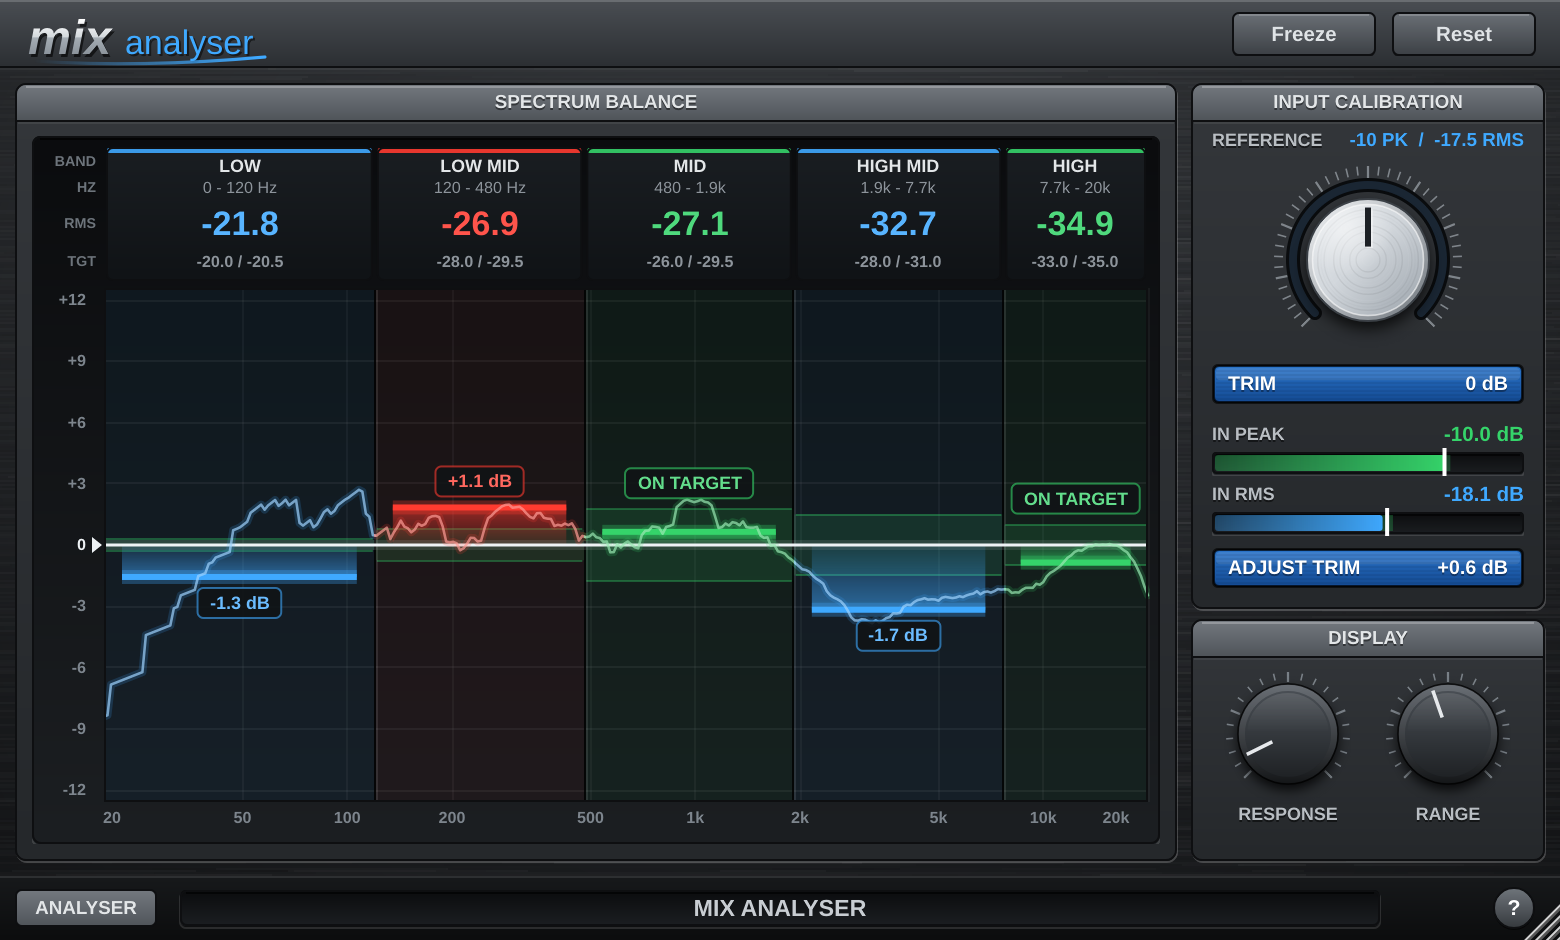
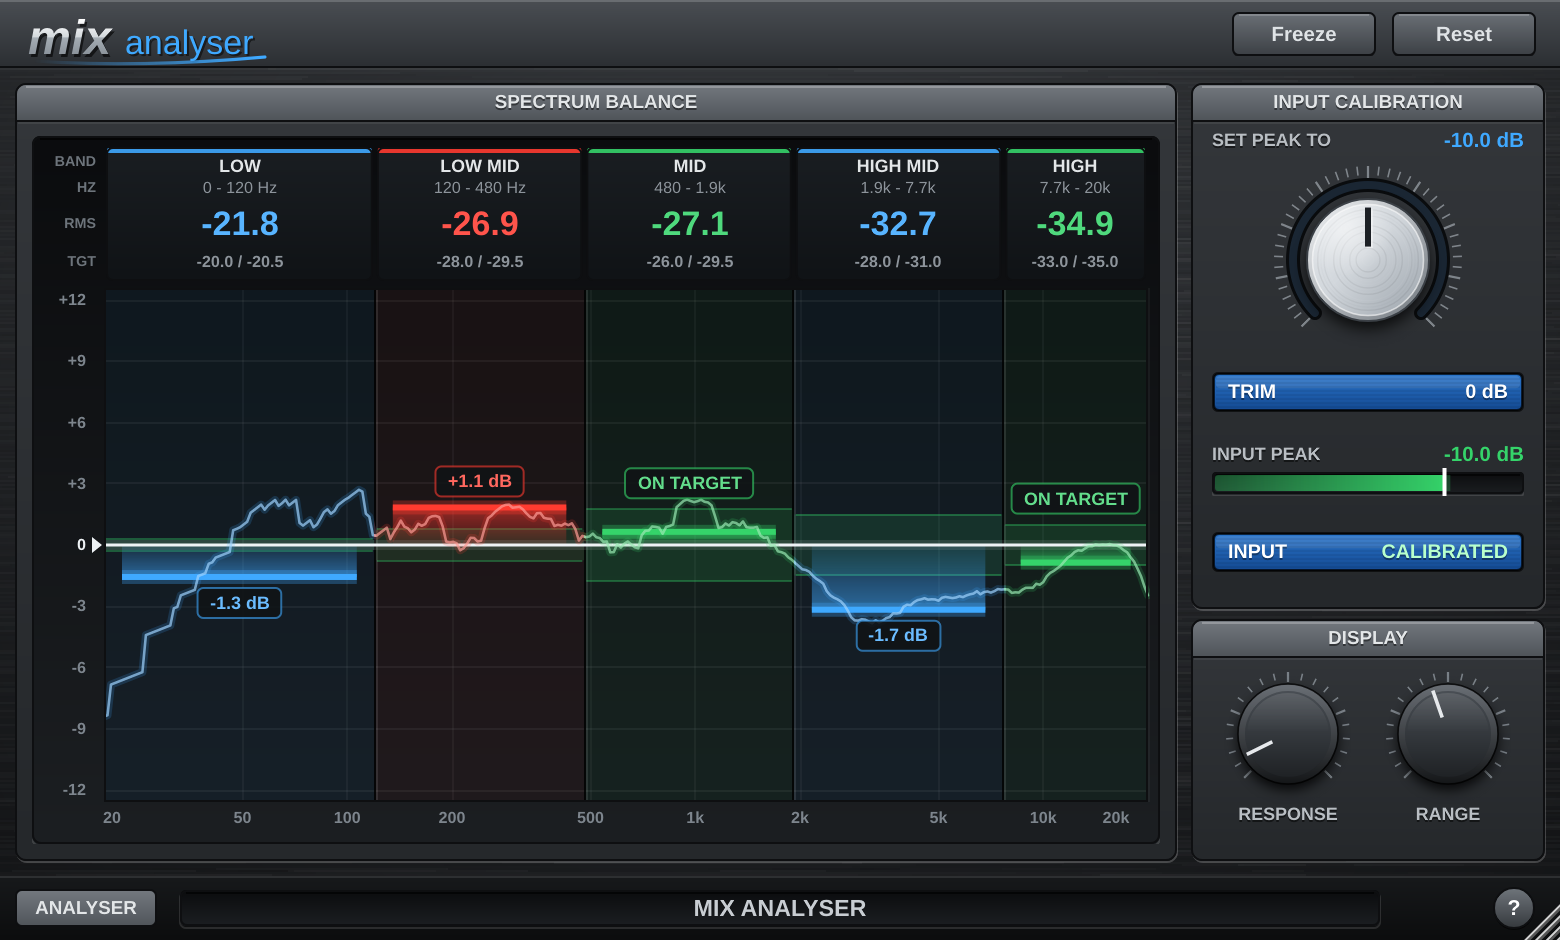
Simplify calibration: peak-only trim, remove RMS input meter
Claude-Session: https://claude.ai/code/session_01HY2UoCFnfYd5woLgvLKPLP

Changed region(s): [[0.7692, 0.3702, 0.9846, 0.6479], [0.7692, 0.1234, 0.9846, 0.1543]]

diff --git a/Source/PluginEditor.cpp b/Source/PluginEditor.cpp
@@ -52,11 +52,9 @@ AnalyserPanel::AnalyserPanel (AnalyserAudioProcessor& p) : processor (p)
 
     addAndMakeVisible (spectrum);
     addAndMakeVisible (peakMeter);
-    addAndMakeVisible (rmsMeter);
     addAndMakeVisible (trimLcd);
     addAndMakeVisible (guideLcd);
-    peakMeter.setTooltip ("Sample peak of the trimmed input over the Response window. Reference: -10 dB");
-    rmsMeter.setTooltip ("RMS of the trimmed input over the Response window. Reference: -17.5 dB");
+    peakMeter.setTooltip ("Highest sample peak of the trimmed input over the Response window. Set TRIM so this reads -10 dB.");
 
     helpButton.onClick = [this] { helpOverlay.setVisible (true); helpOverlay.toFront (false); };
     helpButton.setTooltip ("Quick help");
@@ -82,10 +80,9 @@ void AnalyserPanel::resized()
     spectrum.setBounds (16, 68, 564, 354);
 
     trimKnob.setBounds (636, 82, 96, 96);
-    trimLcd.setBounds (606, 182, 156, 20);
-    peakMeter.setBounds (606, 210, 156, 28);
-    rmsMeter.setBounds (606, 240, 156, 28);
-    guideLcd.setBounds (606, 274, 156, 20);
+    trimLcd.setBounds (606, 186, 156, 20);
+    peakMeter.setBounds (606, 220, 156, 28);
+    guideLcd.setBounds (606, 266, 156, 20);
 
     responseKnob.setBounds (612, 334, 64, 80);
     rangeKnob.setBounds (692, 334, 64, 80);
@@ -111,11 +108,10 @@ void AnalyserPanel::refresh()
         curve.process (tapCopy.data(), s.sampleRate.load());
         spectrum.setCurve (curve);
 
-        const float peak = s.inputPeakDb.load(), rms = s.inputRmsDb.load();
+        const float peak = s.inputPeakDb.load();
         peakMeter.setLevel (peak);
-        rmsMeter.setLevel (rms);
 
-        const auto status = an::inputStatus (rms, an::kRefRmsDb);
+        const auto status = an::inputStatus (peak, an::kRefPeakDb);
         if (status == an::Status::Silent)
         {
             guideLcd.setContent ("INPUT", "NO SIGNAL");
@@ -128,7 +124,7 @@ void AnalyserPanel::refresh()
         }
         else
         {
-            guideLcd.setContent ("ADJUST TRIM", an::formatDb (an::kRefRmsDb - rms, true) + " dB");
+            guideLcd.setContent ("ADJUST TRIM", an::formatDb (an::kRefPeakDb - peak, true) + " dB");
             guideLcd.setValueColour (Colours::white);
         }
     }
@@ -230,10 +226,10 @@ void AnalyserPanel::paint (Graphics& g)
     CustomLookAndFeel::drawPanel (g, displayPanel,  "Display");
 
     // reference level line in the calibration panel
-    CustomLookAndFeel::drawSmallLabel (g, "Reference", { 606.0f, 64.0f, 70.0f, 12.0f }, Justification::centredLeft);
-    g.setFont (CustomLookAndFeel::uiFont (10.5f, true));
+    CustomLookAndFeel::drawSmallLabel (g, "Set Peak To", { 606.0f, 64.0f, 90.0f, 12.0f }, Justification::centredLeft);
+    g.setFont (CustomLookAndFeel::uiFont (11.5f, true));
     g.setColour (VirusColours::blue);
-    g.drawText ("-10 PK  /  -17.5 RMS", Rectangle<float> (662.0f, 64.0f, 100.0f, 12.0f), Justification::centredRight);
+    g.drawText ("-10.0 dB", Rectangle<float> (682.0f, 64.0f, 80.0f, 12.0f), Justification::centredRight);
 
     // --- bottom bar -----------------------------------------------------------------
     auto bar = Rectangle<float> (0.0f, (float) kBottomBarY, (float) kWidth, (float) (kHeight - kBottomBarY));

diff --git a/Source/UI/AnalyserComponents.cpp b/Source/UI/AnalyserComponents.cpp
@@ -710,9 +710,9 @@ void HelpOverlay::paint (Graphics& g)
 
     const char* lines[] =
     {
-        "1.  Set your mix so it reads -10 dB peak / -17.5 dB RMS in your DAW.",
-        "2.  Fine-tune TRIM until IN PEAK and IN RMS turn green (only the analysis is trimmed;",
-        "     the audio passes through unchanged).",
+        "1.  Play your mix and turn TRIM until INPUT PEAK reads -10 dB and turns green.",
+        "     The LCD below it tells you how far to move TRIM. Only the analysis is trimmed;",
+        "     the audio passes through unchanged.",
         "3.  Play the loudest section. Each band shows its RMS against its target window:",
         "     GREEN = on target,  RED = too much energy,  BLUE = too little.",
         "4.  The bars grow up (too much) or down (too little) from the target line in the middle.",

diff --git a/Source/Parameters.h b/Source/Parameters.h
@@ -14,10 +14,9 @@ namespace an
     }
 
     //==========================================================================
-    // Reference input level. The band targets below assume the mix arrives at
-    // this level (after the Trim knob).
+    // Reference input level: the band targets below assume the mix peaks at
+    // -10 dB (after the Trim knob), which for the reference material is -17.5 dB RMS.
     inline constexpr float kRefPeakDb = -10.0f;
-    inline constexpr float kRefRmsDb  = -17.5f;
     inline constexpr float kRefToleranceDb = 0.5f;   // input counts as calibrated within +/- this
 
     //==========================================================================

diff --git a/Source/PluginEditor.h b/Source/PluginEditor.h
@@ -41,8 +41,7 @@ private:
     SpectrumCurve curve;
     std::vector<float> tapCopy = std::vector<float> ((size_t) SpectrumCurve::kFftSize, 0.0f);
 
-    InputMeter peakMeter { "In Peak", an::kRefPeakDb };
-    InputMeter rmsMeter  { "In RMS",  an::kRefRmsDb };
+    InputMeter peakMeter { "Input Peak", an::kRefPeakDb };
     LcdDisplay trimLcd, guideLcd;
 
     HelpButton helpButton;
